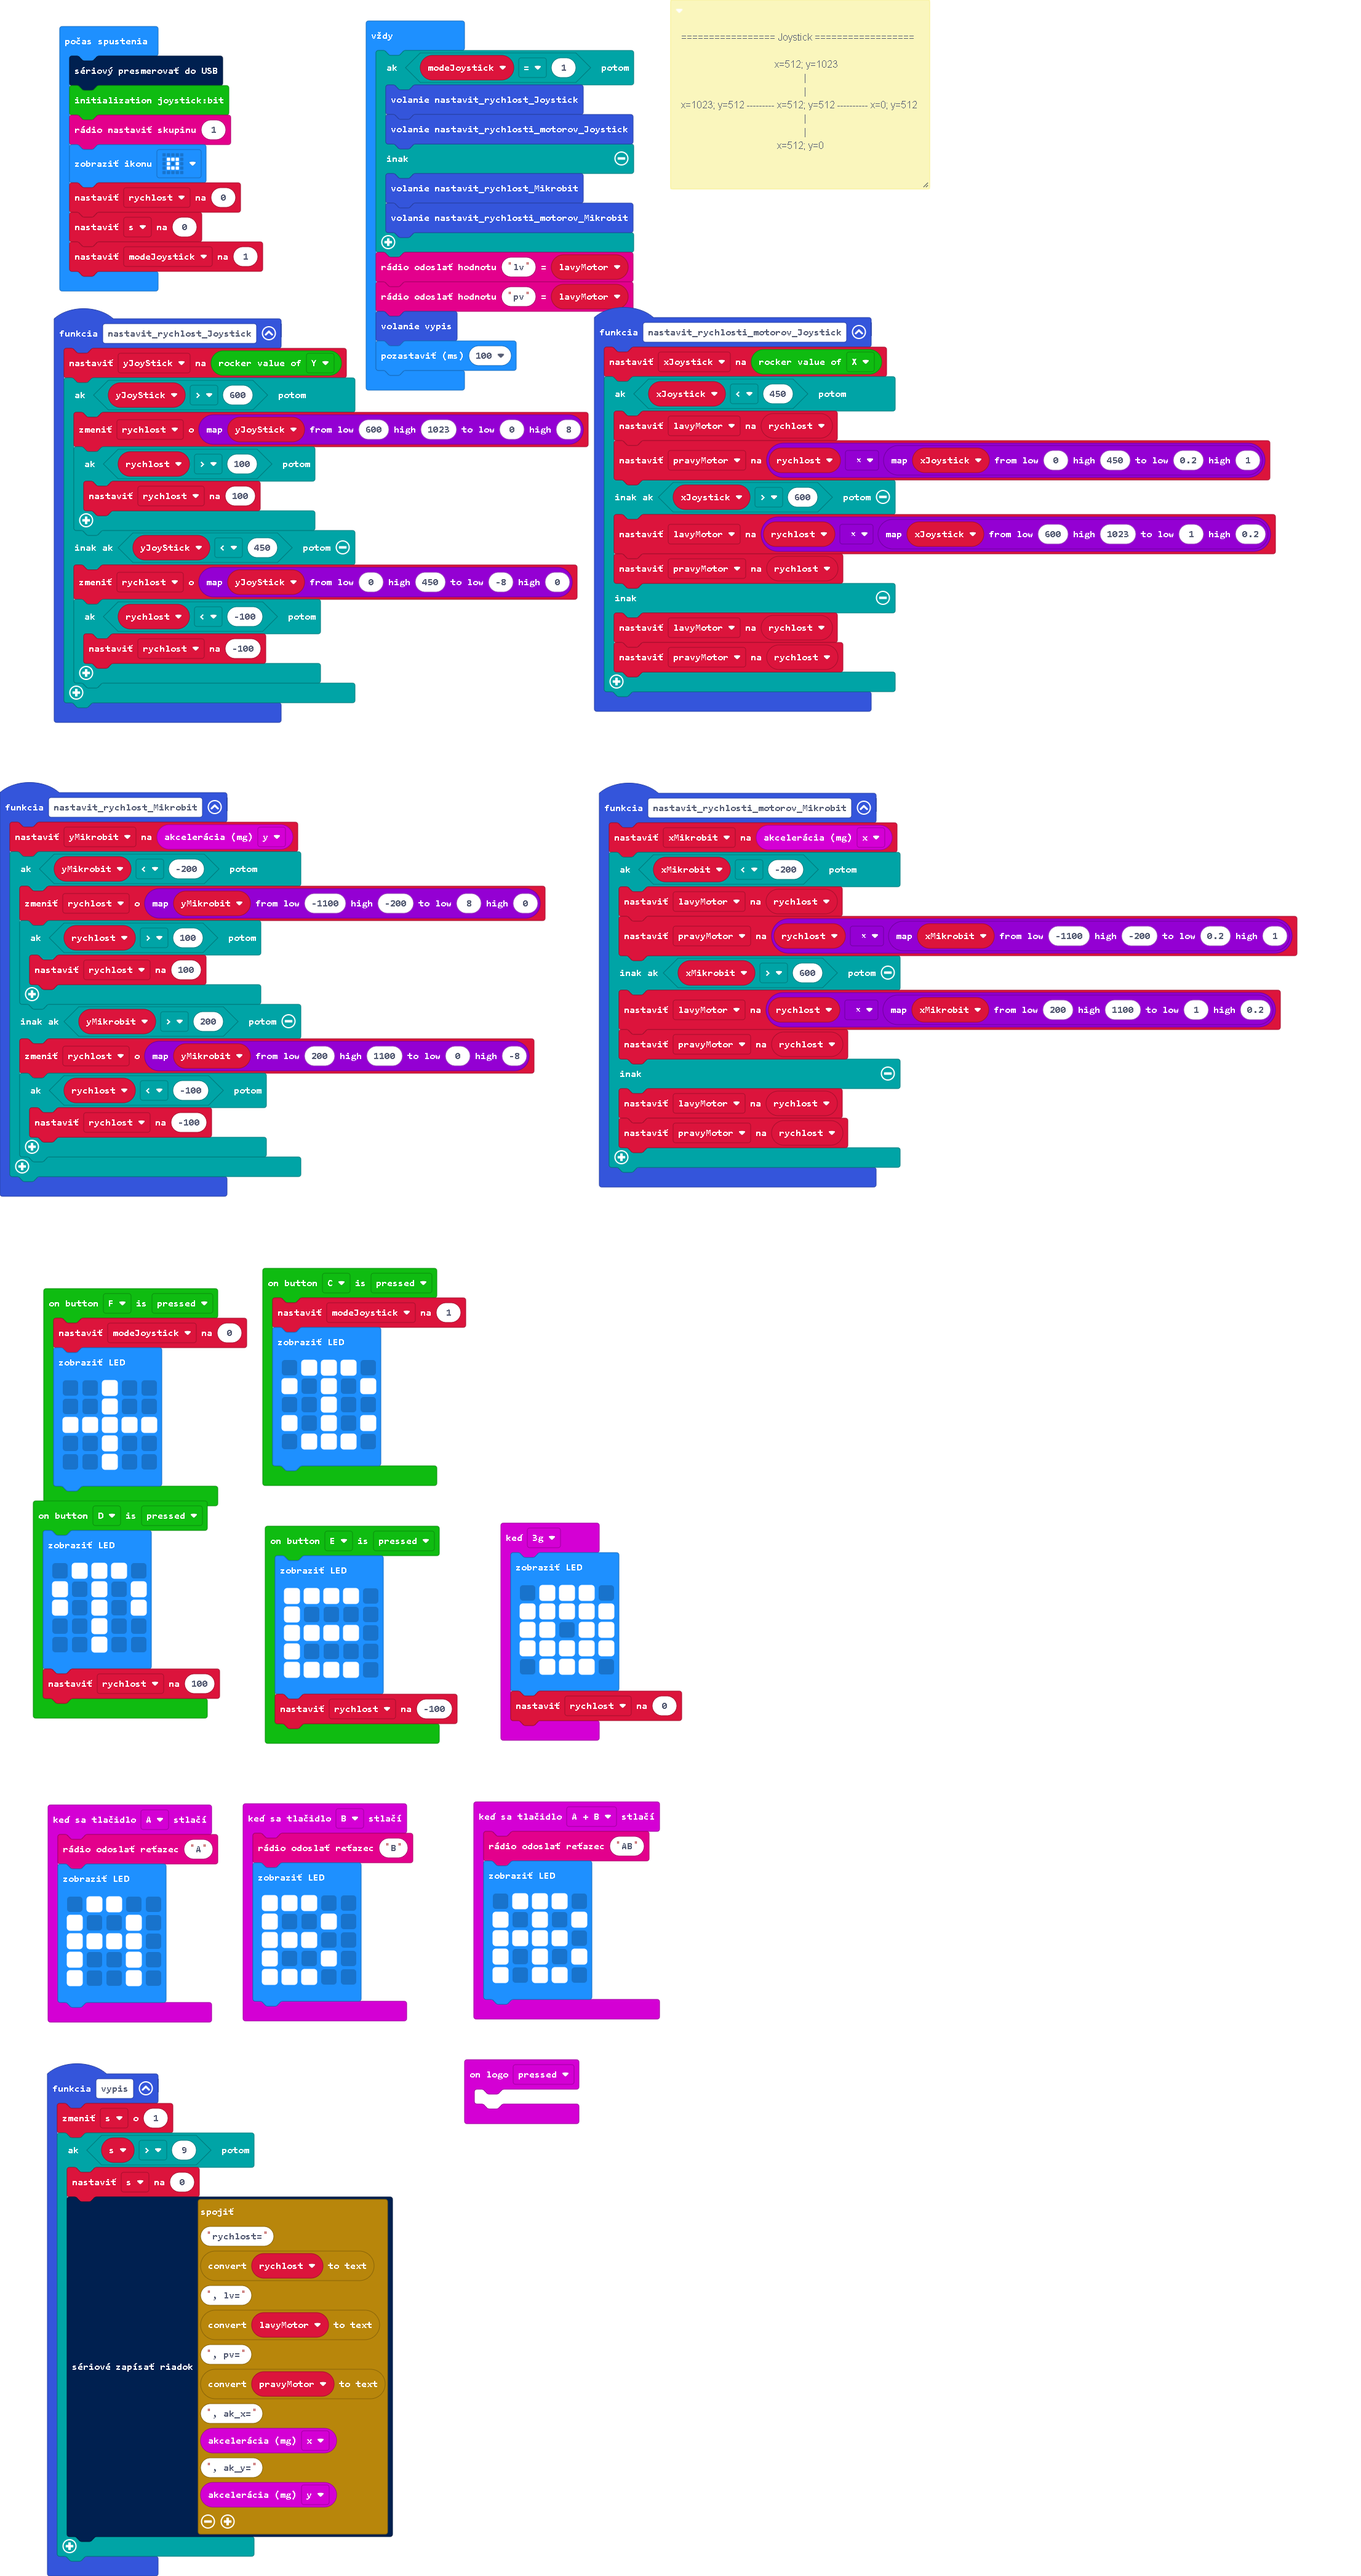
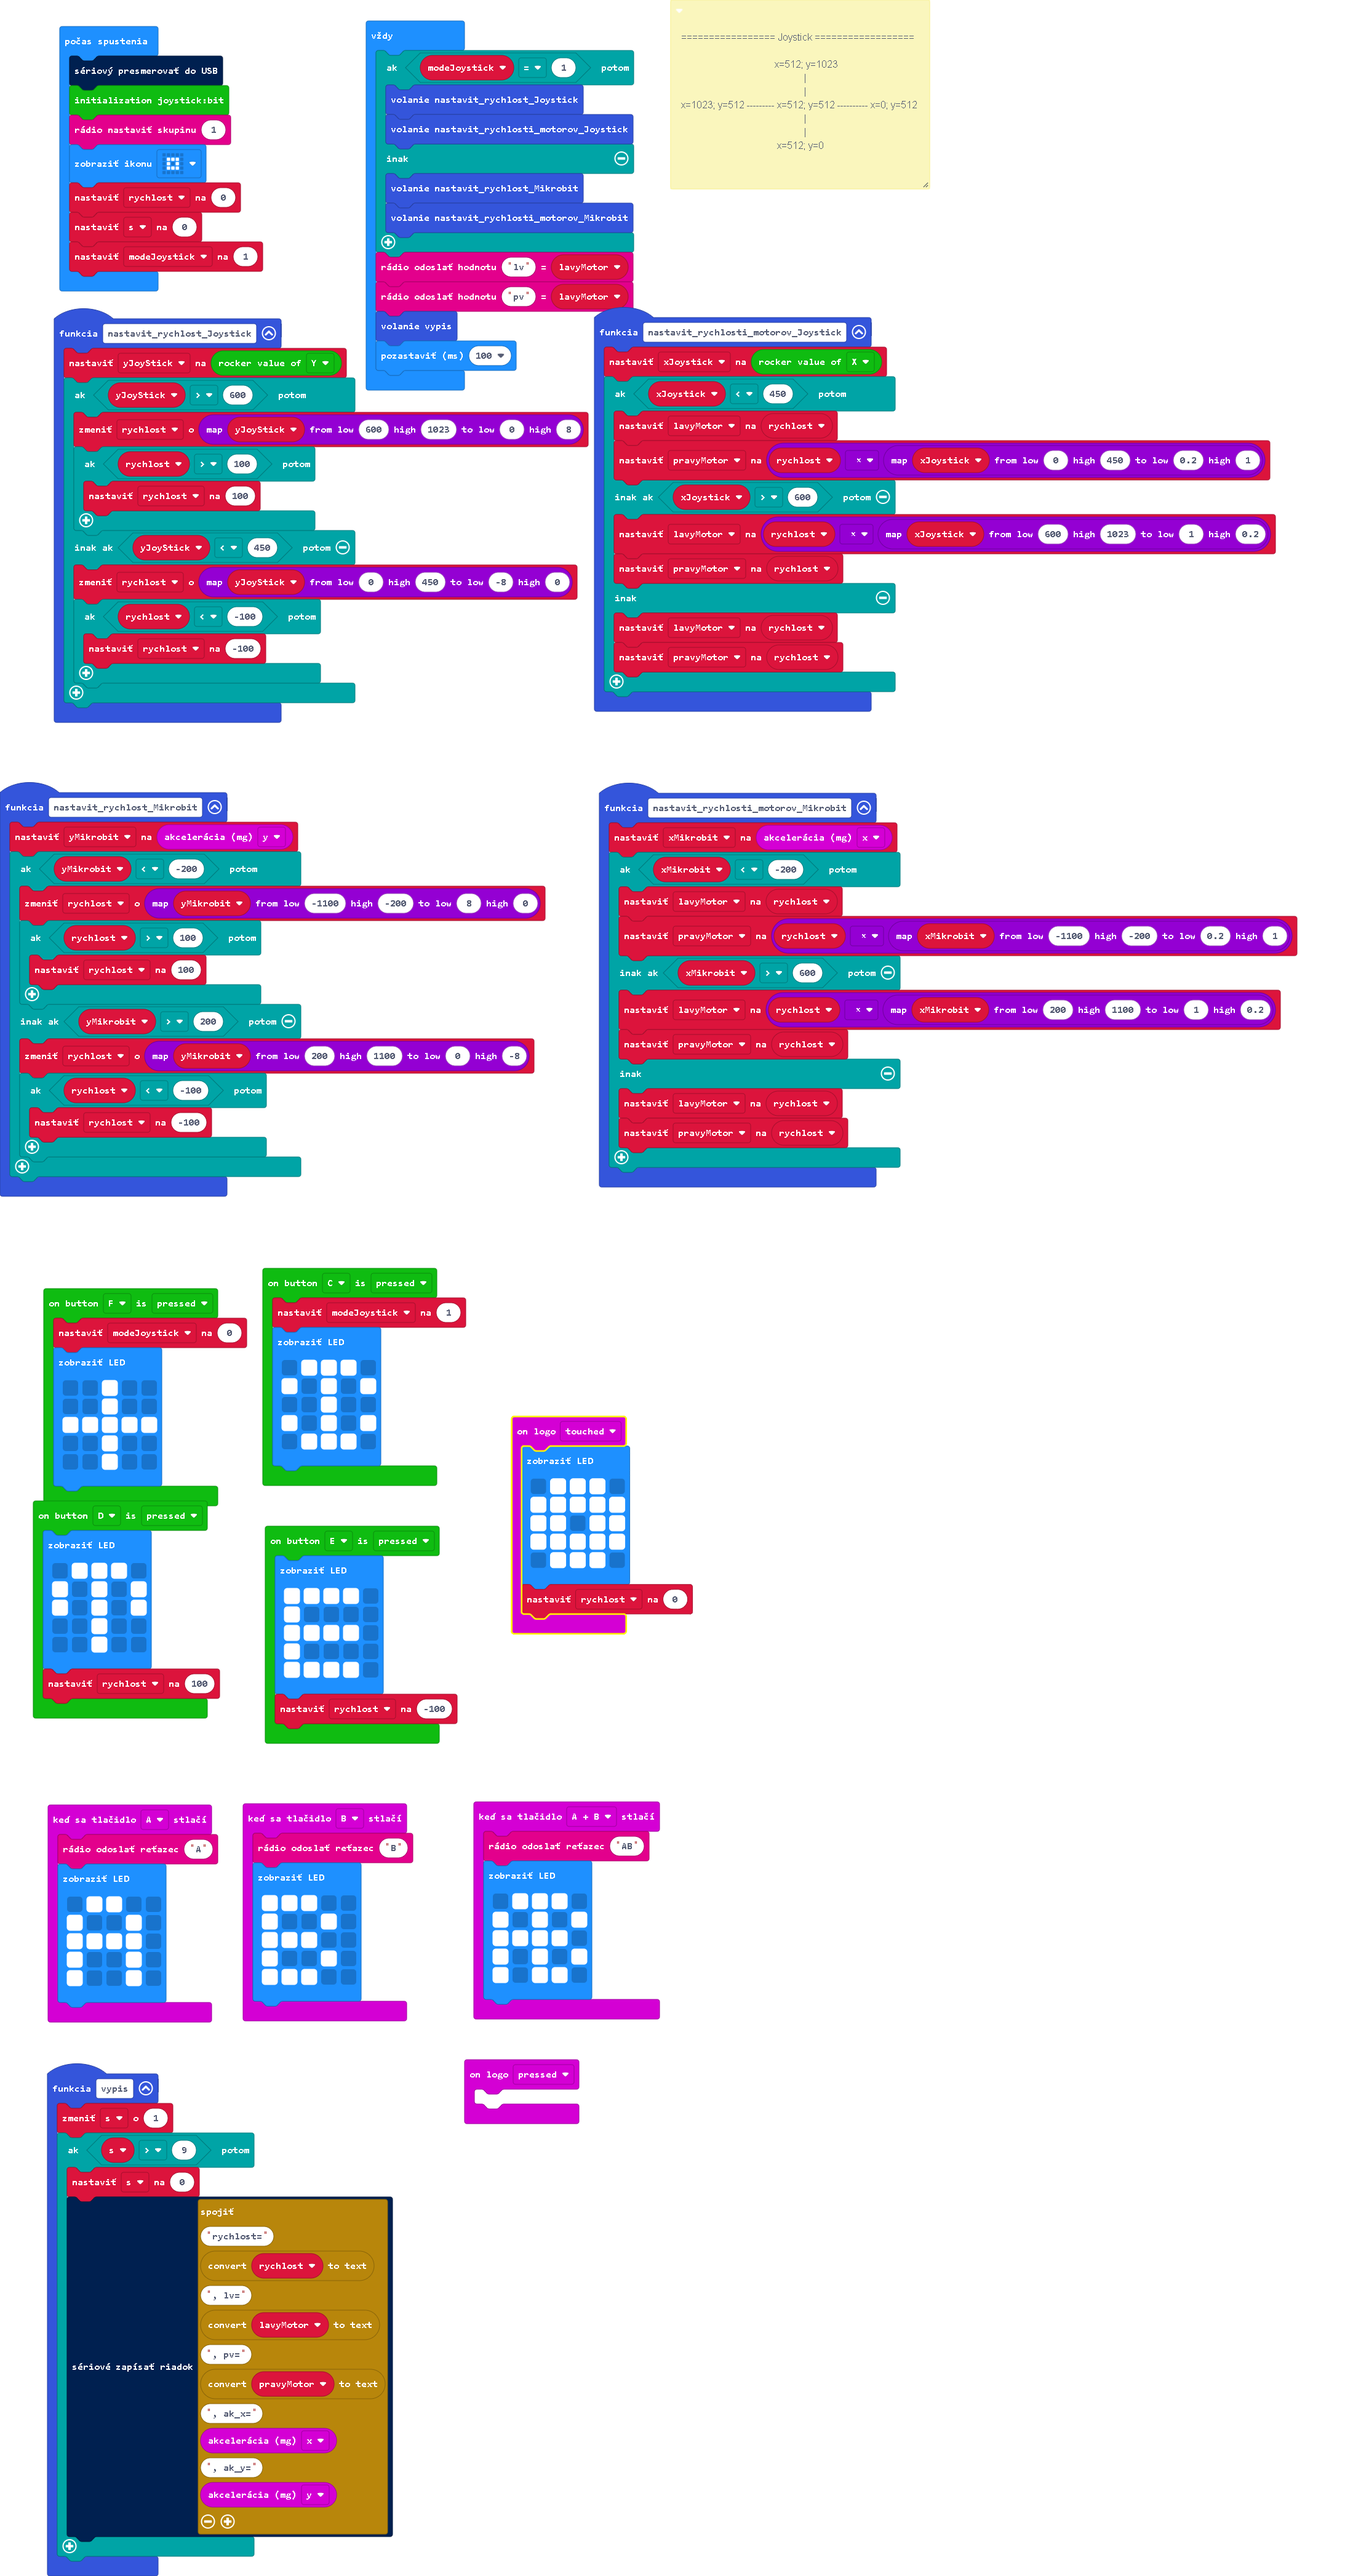
Aktualizovať main.blocks, main.ts

Changed region(s): [[0.3431, 0.528, 0.4991, 0.6832]]

diff --git a/main.ts b/main.ts
@@ -109,6 +109,16 @@ function nastavit_rychlosti_motorov_Joystick () {
         pravyMotor = rychlost
     }
 }
+input.onLogoEvent(TouchButtonEvent.Touched, function () {
+    basic.showLeds(`
+        . # # # .
+        # # # # #
+        # # . # #
+        # # # # #
+        . # # # .
+        `)
+    rychlost = 0
+})
 joystickbit.onButtonEvent(joystickbit.JoystickBitPin.P13, joystickbit.ButtonType.down, function () {
     basic.showLeds(`
         . # # # .
@@ -131,16 +141,6 @@ joystickbit.onButtonEvent(joystickbit.JoystickBitPin.P12, joystickbit.ButtonType
 })
 input.onLogoEvent(TouchButtonEvent.Pressed, function () {
 	
-})
-input.onGesture(Gesture.ThreeG, function () {
-    basic.showLeds(`
-        . # # # .
-        # # # # #
-        # # . # #
-        # # # # #
-        . # # # .
-        `)
-    rychlost = 0
 })
 let xJoystick = 0
 let xMikrobit = 0
